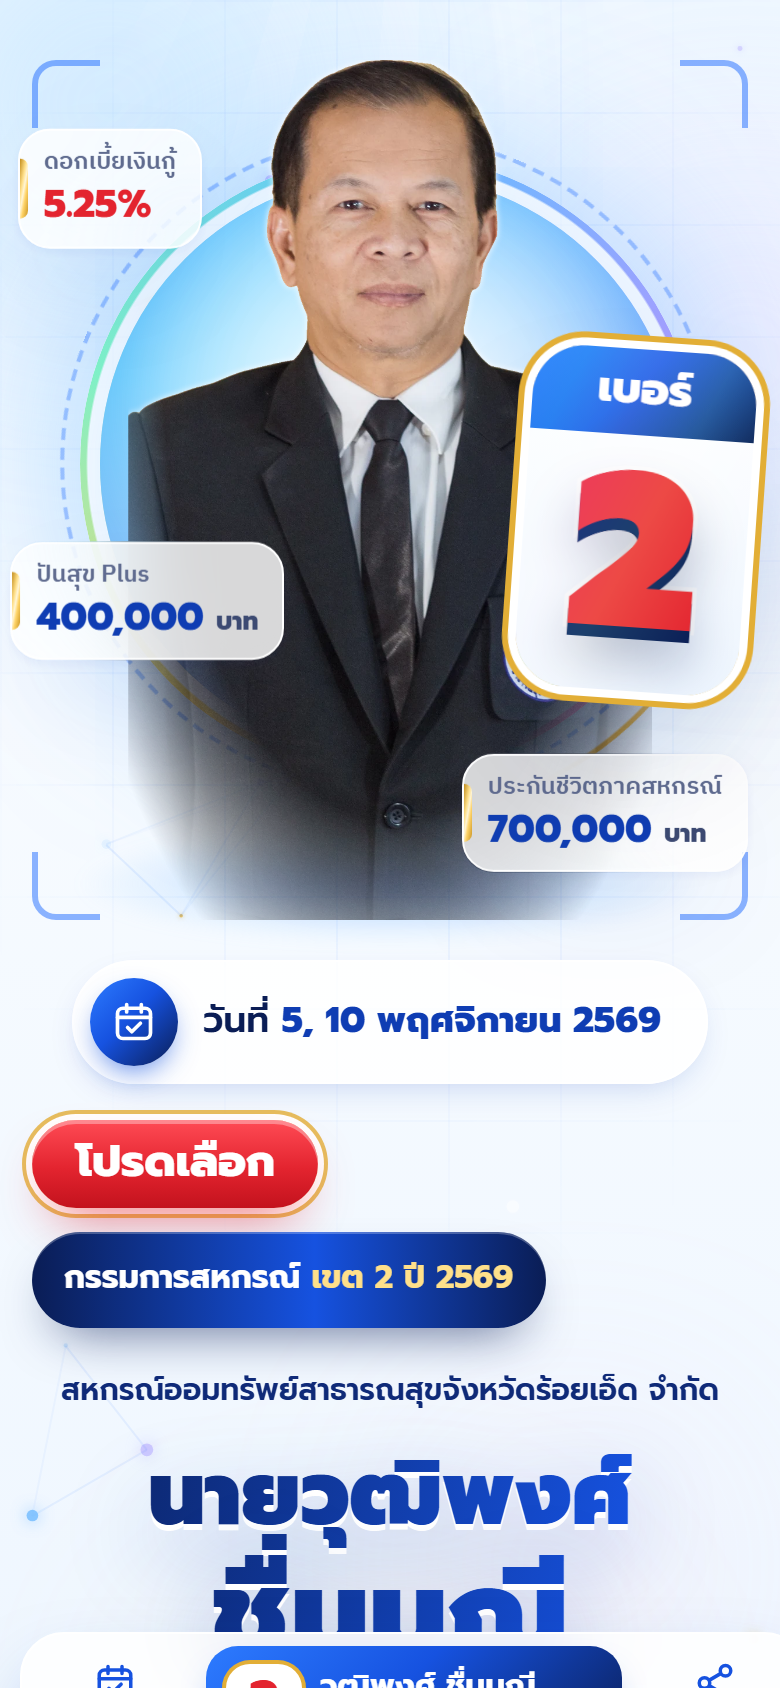
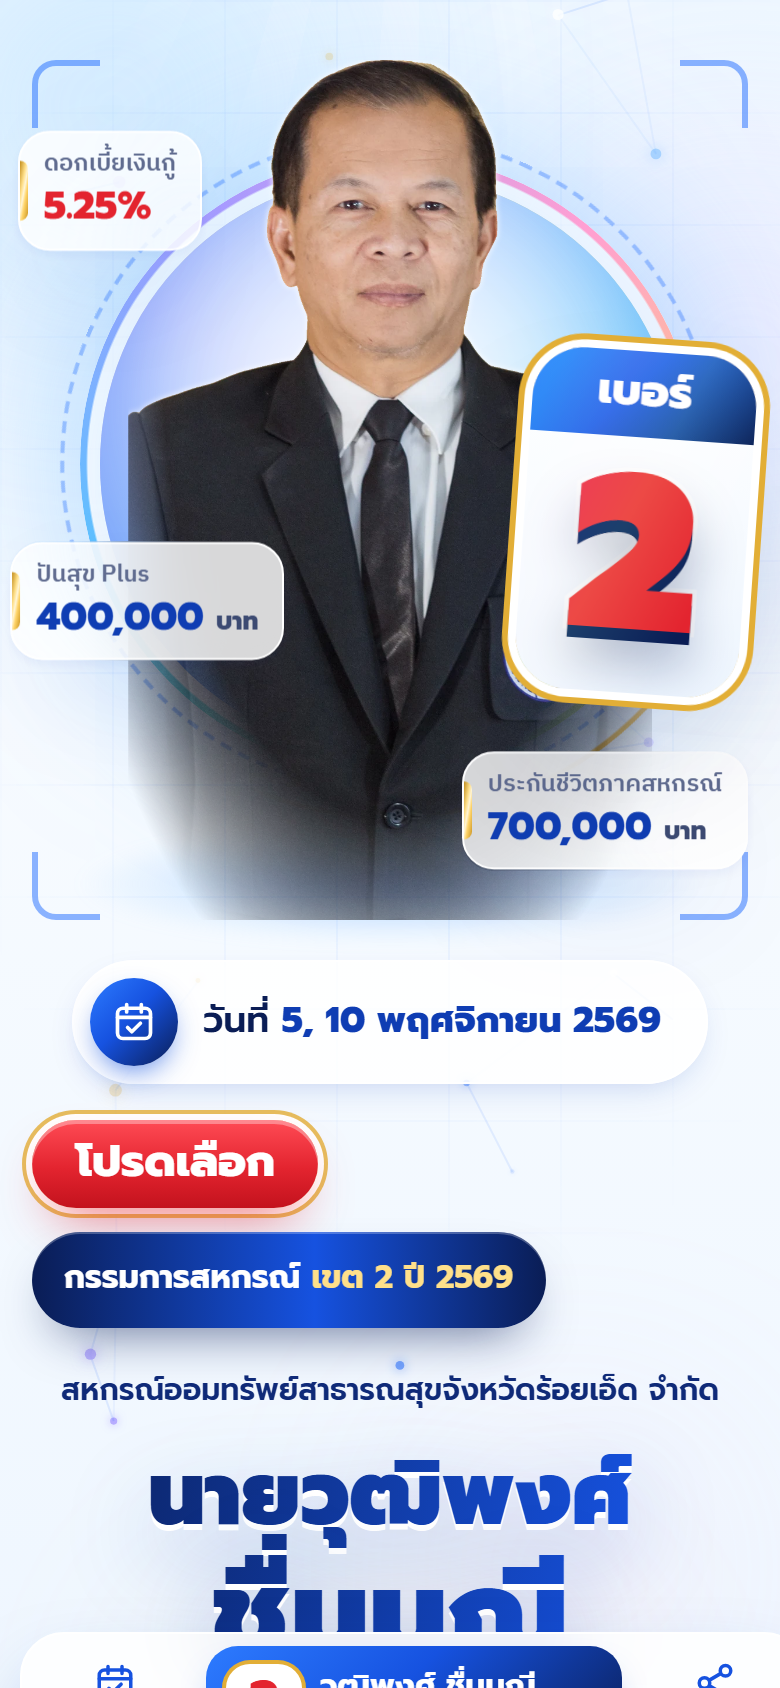
fix: full coop photo in holographic frame, no top bar on phones/tablets
- Zone card shows the whole photo (no crop) inside a white mat with a
  rotating holographic border, glow and light sheen
- Top header hidden up to 1024px; bottom dock (name, election date,
  share) shown instead, centred on tablets
- Rainbow borders now actually rotate: inline the conic gradient so
  --angle resolves on the animated element instead of :root
- Version query on CSS/JS so returning visitors get updates immediately

diff --git a/css/campaign.css b/css/campaign.css
@@ -26,7 +26,6 @@
   --red-600: #c3121d;
 
   --holo: linear-gradient(115deg, #a9e2ff 0%, #c9c2ff 22%, #ffd0ec 42%, #fff1bf 60%, #bff6e3 78%, #a9e2ff 100%);
-  --holo-conic: conic-gradient(from var(--angle), #5fc0ff, #a99bff, #ff9fd2, #ffd96a, #7ef0c8, #5fc0ff);
   --gold: linear-gradient(100deg, #c38d1b 0%, #ffe08a 35%, #fff6d8 50%, #ffd56a 65%, #c9921f 100%);
   --royal: linear-gradient(135deg, #2d7bff 0%, #1652e0 45%, #0a1d55 100%);
   --navy-bar: linear-gradient(90deg, #0a1d55, #1652e0 55%, #0a1d55);
@@ -91,7 +90,7 @@ b, strong { font-weight: 700; }
 .preloader-core { position: relative; width: 150px; height: 150px; display: grid; place-items: center; }
 .preloader-ring {
   position: absolute; inset: 0; border-radius: 50%;
-  background: var(--holo-conic);
+  background: conic-gradient(from var(--angle), #5fc0ff, #a99bff, #ff9fd2, #ffd96a, #7ef0c8, #5fc0ff);
   -webkit-mask: radial-gradient(farthest-side, transparent calc(100% - 5px), #000 calc(100% - 4px));
           mask: radial-gradient(farthest-side, transparent calc(100% - 5px), #000 calc(100% - 4px));
   animation: spin-angle 2.4s linear infinite, spin 2.4s linear infinite;
@@ -162,7 +161,7 @@ b, strong { font-weight: 700; }
 .holo-edge { position: relative; isolation: isolate; }
 .holo-edge::before {
   content: ''; position: absolute; inset: -1px; border-radius: inherit; padding: 2px; z-index: 1; pointer-events: none;
-  background: var(--holo-conic);
+  background: conic-gradient(from var(--angle), #5fc0ff, #a99bff, #ff9fd2, #ffd96a, #7ef0c8, #5fc0ff);
   -webkit-mask: linear-gradient(#000 0 0) content-box, linear-gradient(#000 0 0);
   -webkit-mask-composite: xor;
           mask: linear-gradient(#000 0 0) content-box exclude, linear-gradient(#000 0 0);
@@ -346,12 +345,12 @@ b, strong { font-weight: 700; }
 }
 .halo-disc::after {
   content: ''; position: absolute; inset: 0; border-radius: 50%; mix-blend-mode: soft-light; opacity: .9;
-  background: var(--holo-conic); animation: spin-angle 8s linear infinite;
+  background: conic-gradient(from var(--angle), #5fc0ff, #a99bff, #ff9fd2, #ffd96a, #7ef0c8, #5fc0ff); animation: spin-angle 8s linear infinite;
 }
 .halo-ring { position: absolute; aspect-ratio: 1; border-radius: 50%; }
 .halo-ring.r1 { width: 100%; border: 2px dashed rgba(31, 107, 255, .35); animation: spin 60s linear infinite; }
 .halo-ring.r2 {
-  width: 94%; background: var(--holo-conic); animation: spin-angle 5s linear infinite;
+  width: 94%; background: conic-gradient(from var(--angle), #5fc0ff, #a99bff, #ff9fd2, #ffd96a, #7ef0c8, #5fc0ff); animation: spin-angle 5s linear infinite;
   -webkit-mask: radial-gradient(farthest-side, transparent calc(100% - 4px), #000 calc(100% - 3px));
           mask: radial-gradient(farthest-side, transparent calc(100% - 4px), #000 calc(100% - 3px));
 }
@@ -508,11 +507,21 @@ b, strong { font-weight: 700; }
 .date-info p { margin-top: 2px; color: var(--ink-2); font-size: 16.5px; line-height: 1.6; }
 .date-info p b { color: var(--navy-900); }
 .zone-card {
-  position: relative; display: grid; grid-template-columns: 46% 1fr; overflow: hidden; border-radius: var(--r);
+  position: relative; display: grid; grid-template-columns: 44% 1fr; align-items: center; overflow: hidden; border-radius: var(--r);
   background: var(--navy-bar); color: #fff; box-shadow: var(--shadow);
 }
-.zone-photo { overflow: hidden; }
-.zone-card img { width: 100%; height: 100%; min-height: 300px; object-fit: cover; object-position: 50% 78%; transform: scale(1.2); transform-origin: 50% 74%; }
+.zone-photo {
+  position: relative; margin: 16px; padding: 4px; border-radius: 20px;
+  background: conic-gradient(from var(--angle), #5fc0ff, #a99bff, #ff9fd2, #ffd96a, #7ef0c8, #5fc0ff);
+  animation: spin-angle 6s linear infinite;
+  box-shadow: 0 0 0 2px rgba(255, 255, 255, .85), 0 0 28px rgba(109, 184, 255, .55), 0 24px 40px -18px rgba(0, 0, 0, .6);
+}
+.zone-photo img { width: 100%; height: auto; border-radius: 16px; border: 4px solid #fff; }
+.zone-photo::after {
+  content: ''; position: absolute; inset: 8px; border-radius: 12px; pointer-events: none; mix-blend-mode: soft-light;
+  background: linear-gradient(120deg, transparent 30%, rgba(255, 255, 255, .55) 45%, rgba(255, 220, 240, .4) 52%, transparent 65%);
+  background-size: 250% 100%; animation: foil 6s ease-in-out infinite;
+}
 .zone-body { padding: 20px 22px; }
 .zone-title { display: flex; align-items: center; gap: 8px; font-family: var(--font-display); font-weight: 700; font-size: 19px; color: var(--gold-300); }
 .zone-desc { margin-top: 6px; font-size: 15.5px; line-height: 1.65; color: rgba(255, 255, 255, .9); }
@@ -601,7 +610,7 @@ b, strong { font-weight: 700; }
 .about-photo, .letter-photo { position: relative; margin: 0; border-radius: var(--r-lg); overflow: hidden; box-shadow: var(--shadow-lg); position: sticky; top: calc(var(--header-h) + 34px); }
 .about-photo::before, .letter-photo::before {
   content: ''; position: absolute; inset: 0; z-index: 2; border-radius: inherit; padding: 4px; pointer-events: none;
-  background: var(--holo-conic); animation: spin-angle 6s linear infinite;
+  background: conic-gradient(from var(--angle), #5fc0ff, #a99bff, #ff9fd2, #ffd96a, #7ef0c8, #5fc0ff); animation: spin-angle 6s linear infinite;
   -webkit-mask: linear-gradient(#000 0 0) content-box, linear-gradient(#000 0 0); -webkit-mask-composite: xor;
           mask: linear-gradient(#000 0 0) content-box exclude, linear-gradient(#000 0 0);
 }
@@ -753,7 +762,7 @@ body.modal-open { overflow: hidden; }
 }
 .closing-card::before {
   content: ''; position: absolute; inset: 0; border-radius: inherit; padding: 3px; pointer-events: none; z-index: 3;
-  background: var(--holo-conic); animation: spin-angle 6s linear infinite;
+  background: conic-gradient(from var(--angle), #5fc0ff, #a99bff, #ff9fd2, #ffd96a, #7ef0c8, #5fc0ff); animation: spin-angle 6s linear infinite;
   -webkit-mask: linear-gradient(#000 0 0) content-box, linear-gradient(#000 0 0); -webkit-mask-composite: xor;
           mask: linear-gradient(#000 0 0) content-box exclude, linear-gradient(#000 0 0);
 }
@@ -807,16 +816,30 @@ body.modal-open { overflow: hidden; }
   .gallery-grid { grid-template-columns: repeat(3, 1fr); }
 }
 @media (max-width: 1024px) {
-  .menu-button { display: block; }
-  .share-button { margin-left: auto; }
-  #nav {
-    position: absolute; left: 0; right: 0; top: calc(100% + 8px); flex-direction: column; gap: 2px; padding: 10px; border-radius: 20px;
-    background: rgba(255, 255, 255, .96); box-shadow: var(--shadow-lg); border: 1px solid #fff;
-    opacity: 0; visibility: hidden; transform: translateY(-8px); transition: all .3s var(--ease);
+  /* phones & tablets: no top bar — the bottom dock carries name, navigation and share */
+  .header { display: none; }
+  html { scroll-padding-top: 16px; }
+  body { padding-bottom: 84px; }
+  .hero { padding-top: 32px; }
+  .mobile-dock {
+    position: fixed; left: 0; right: 0; bottom: calc(10px + env(safe-area-inset-bottom)); z-index: 90;
+    width: calc(100% - 20px); max-width: 560px; margin: 0 auto;
+    display: grid; grid-template-columns: 1fr 2.6fr 1fr; align-items: center; gap: 6px; padding: 6px; border-radius: 22px;
+    background: rgba(255, 255, 255, .86); border: 1px solid #fff; box-shadow: 0 16px 40px -14px rgba(15, 61, 179, .5);
+    -webkit-backdrop-filter: blur(18px); backdrop-filter: blur(18px);
   }
-  #nav.open { opacity: 1; visibility: visible; transform: none; }
-  #nav a { padding: 14px 16px; font-size: 17px; }
-  #nav a::after { display: none; }
+  .mobile-dock a, .mobile-dock button { display: flex; flex-direction: column; align-items: center; justify-content: center; gap: 2px; min-height: 56px; border-radius: 16px; font-weight: 600; font-size: 12.5px; line-height: 1.3; color: var(--navy-900); }
+  .mobile-dock svg { color: var(--blue-600); font-size: 21px; }
+  .mobile-dock .dock-main { color: #fff; background: var(--royal); box-shadow: 0 10px 20px -10px rgba(22, 82, 224, .9); }
+  .mobile-dock .dock-main { flex-direction: row; justify-content: flex-start; gap: 9px; padding: 0 10px; }
+  .dock-badge {
+    flex: none; width: 38px; height: 38px; display: grid; place-items: center; border-radius: 12px; background: #fff;
+    box-shadow: 0 0 0 2px var(--gold-500); font-family: var(--font-display); font-weight: 900; font-size: 26px; line-height: 1;
+    color: var(--red-500); text-shadow: 0 2px 0 var(--navy-900);
+  }
+  .dock-name { display: flex; flex-direction: column; min-width: 0; text-align: left; line-height: 1.3; }
+  .dock-name b { font-family: var(--font-display); font-weight: 700; font-size: 15.5px; color: #fff; white-space: nowrap; overflow: hidden; text-overflow: ellipsis; }
+  .dock-name small { font-size: 12px; font-weight: 500; color: var(--gold-200); white-space: nowrap; }
   .hero-inner { grid-template-columns: 1fr; }
   .hero-copy { text-align: center; display: flex; flex-direction: column; align-items: center; }
   .hero-coop { justify-content: center; }
@@ -837,20 +860,11 @@ body.modal-open { overflow: hidden; }
   .closing-photo::after { background: linear-gradient(180deg, transparent 55%, #cfe6ff); }
 }
 @media (max-width: 720px) {
-  :root { --header-h: 64px; }
-  body { font-size: 17px; padding-bottom: 84px; }
-  .header { inset: 8px 8px auto; padding: 0 8px 0 10px; gap: 8px; border-radius: 18px; }
-  .brand { flex: 1 1 auto; min-width: 0; gap: 10px; }
-  .brand-text { min-width: 0; overflow: hidden; }
-  .brand-text small { overflow: hidden; text-overflow: ellipsis; }
+  body { font-size: 17px; }
   .brand-badge { width: 42px; height: 42px; }
   .brand-badge b { font-size: 28px; }
   .brand-text { font-size: 16px; }
   .brand-text small { font-size: 12px; }
-  .share-button span { display: none; }
-  .share-button { width: 44px; padding: 0; justify-content: center; }
-  .header { display: none; }
-  html { scroll-padding-top: 16px; }
   .hero { padding-top: 26px; }
   .hero-stage { max-width: 380px; }
   .number-card { right: 0; top: 36%; width: 112px; }
@@ -868,7 +882,7 @@ body.modal-open { overflow: hidden; }
   .date-block { width: 84px; }
   .date-day { font-size: 42px; }
   .zone-card { grid-template-columns: 1fr; }
-  .zone-card img { height: auto; min-height: 0; aspect-ratio: 10 / 9; object-position: 50% 100%; transform: none; }
+  .zone-photo { margin: 14px 14px 4px; }
   .policy { grid-template-columns: auto 1fr; grid-template-areas: "icon value" "text text"; gap: 14px 12px; padding: 20px 18px 22px 24px; border-radius: 24px; }
   .policy-icon { grid-area: icon; width: 68px; height: 68px; font-size: 36px; border-radius: 20px; }
   .policy-num { position: absolute; left: 74px; top: 12px; width: 34px; height: 34px; font-size: 19px; box-shadow: 0 0 0 2px #fff, 0 0 0 4px var(--gold-500); z-index: 3; }
@@ -905,24 +919,6 @@ body.modal-open { overflow: hidden; }
   #lb-caption { flex-basis: 100%; order: -1; }
   .lb-close { margin-left: auto; }
   .footer { flex-direction: column; text-align: center; padding-bottom: 30px; }
-  .mobile-dock {
-    position: fixed; left: 10px; right: 10px; bottom: calc(10px + env(safe-area-inset-bottom)); z-index: 90;
-    display: grid; grid-template-columns: 1fr 2.6fr 1fr; align-items: center; gap: 6px; padding: 6px; border-radius: 22px;
-    background: rgba(255, 255, 255, .86); border: 1px solid #fff; box-shadow: 0 16px 40px -14px rgba(15, 61, 179, .5);
-    -webkit-backdrop-filter: blur(18px); backdrop-filter: blur(18px);
-  }
-  .mobile-dock a, .mobile-dock button { display: flex; flex-direction: column; align-items: center; justify-content: center; gap: 2px; min-height: 56px; border-radius: 16px; font-weight: 600; font-size: 12.5px; line-height: 1.3; color: var(--navy-900); }
-  .mobile-dock svg { color: var(--blue-600); font-size: 21px; }
-  .mobile-dock .dock-main { color: #fff; background: var(--royal); box-shadow: 0 10px 20px -10px rgba(22, 82, 224, .9); }
-  .mobile-dock .dock-main { flex-direction: row; justify-content: flex-start; gap: 9px; padding: 0 10px; }
-  .dock-badge {
-    flex: none; width: 38px; height: 38px; display: grid; place-items: center; border-radius: 12px; background: #fff;
-    box-shadow: 0 0 0 2px var(--gold-500); font-family: var(--font-display); font-weight: 900; font-size: 26px; line-height: 1;
-    color: var(--red-500); text-shadow: 0 2px 0 var(--navy-900);
-  }
-  .dock-name { display: flex; flex-direction: column; min-width: 0; text-align: left; line-height: 1.3; }
-  .dock-name b { font-family: var(--font-display); font-weight: 700; font-size: 15.5px; color: #fff; white-space: nowrap; overflow: hidden; text-overflow: ellipsis; }
-  .dock-name small { font-size: 12px; font-weight: 500; color: var(--gold-200); white-space: nowrap; }
   .cursor-glow { display: none; }
 }
 @media (max-width: 400px) {

diff --git a/index.html b/index.html
@@ -22,7 +22,7 @@
   <link rel="preconnect" href="https://fonts.gstatic.com" crossorigin>
   <link href="https://fonts.googleapis.com/css2?family=IBM+Plex+Sans+Thai:wght@400;500;600;700&family=Prompt:wght@500;600;700;800;900&display=swap" rel="stylesheet">
   <link rel="preload" as="image" href="assets/photos/hero-cutout.webp" type="image/webp">
-  <link rel="stylesheet" href="css/campaign.css">
+  <link rel="stylesheet" href="css/campaign.css?v=20261005-4">
   <script>document.documentElement.classList.add('js')</script>
 </head>
 <body>
@@ -479,6 +479,6 @@
 </dialog>
 <div id="toast" role="status" aria-live="polite"></div>
 
-<script src="js/campaign.js"></script>
+<script src="js/campaign.js?v=20261005-4"></script>
 </body>
 </html>
